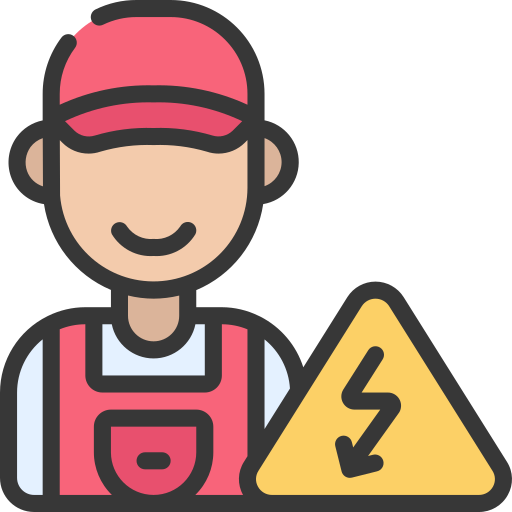
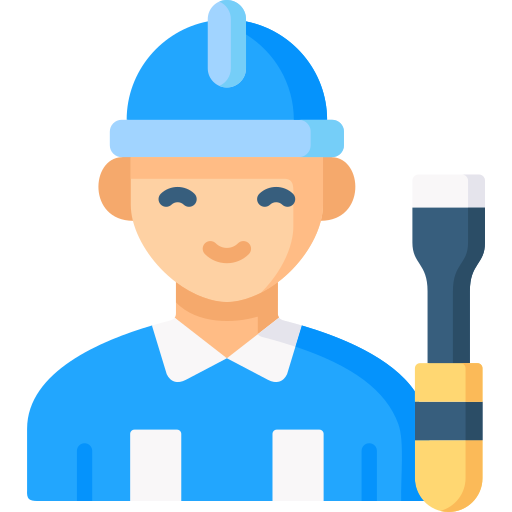
added API's & catergory modified

diff --git a/Backend/controllers/profile.js b/Backend/controllers/profile.js
@@ -20,4 +20,35 @@ const newprofile = async (req, res) => {
     }
 };
 
-module.exports = { newprofile };
+const profileById = async (req, res) => {
+    try {
+        const profileById = await Profiles.findById(req.params.id);
+
+        if (profileById.length == 0) {
+            return res.status(404).json({ status: 404, message: 'Profile not found' });
+        }
+        res.status(200).json(profileById);
+    } catch (error) {
+        return res.status(400).json(err);
+    }
+}
+
+const profileByCategory = async (req, res) => {
+    try {
+        console.log(req.params.category);
+        const profile_by_Category = await Profiles.find({ 'category': req.params.category });
+        console.log(profile_by_Category);
+
+        if (profile_by_Category.length == 0) {
+            return res.status(404).json({
+                status: 404,
+                message: 'Profile not found'
+            });
+        }
+        return res.status(200).json(profile_by_Category);
+    } catch (error) {
+        return res.status(400).json(err);
+    }
+}
+
+module.exports = { newprofile, profileByCategory, profileById };

diff --git a/Backend/routes/profile.js b/Backend/routes/profile.js
@@ -1,9 +1,15 @@
 const express = require('express');
-const { newprofile } = require('../controllers/profile.js');
+const { newprofile, profileByCategory, profileById } = require('../controllers/profile.js');
 
 const router = express.Router();
 
 //* New worker -->> http://localhost:8000/profile/newprofile
 router.post('/newprofile', newprofile);
+
+//* get profile by id  -->> http://localhost:8000/profile/profileById/${id}
+router.get('/profileById/:id', profileById);
+
+//* get all profiles by category -->> http://localhost:8000/profile/profileByCategory/${category}
+router.get('/profileByCategory/:category', profileByCategory);
 
 module.exports = router;

diff --git a/flutterapp/lib/professional_category_screen.dart b/flutterapp/lib/professional_category_screen.dart
@@ -27,12 +27,12 @@ class _ProfessionalCategoryState extends State<ProfessionalCategory> {
       "imgSrc": 'architect',
     },
     {
-      "title": "Doctor",
-      "imgSrc": 'doctor',
+      "title": "Accountant",
+      "imgSrc": 'accountant',
     },
     {
-      "title": "Architect",
-      "imgSrc": 'architect',
+      "title": "Developer",
+      "imgSrc": 'developer',
     },
     {
       "title": "Doctor",

diff --git a/flutterapp/lib/skilled_category_screen.dart b/flutterapp/lib/skilled_category_screen.dart
@@ -32,8 +32,8 @@ class _SkilledCategoryState extends State<SkilledCategory> {
       "imgSrc": 'catering',
     },
     {
-      "title": "Carpenter",
-      "imgSrc": 'carpenter',
+      "title": "Barber",
+      "imgSrc": 'barber',
     },
     {
       "title": "Painter",
